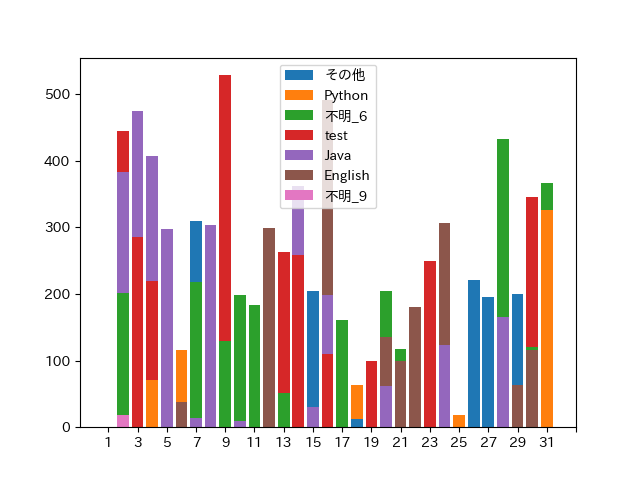
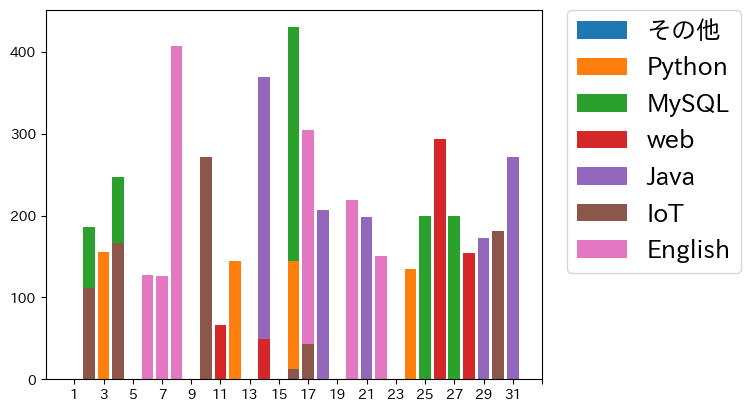
円グラフの作成の追加

diff --git a/study_application/login_user/output/2_stacked_bar_graph.html b/study_application/login_user/output/2_stacked_bar_graph.html
@@ -3,8 +3,9 @@
 <title>勉強記録</title>
 </head>
 <body>
-<h1>2024年01月の勉強記録
+<h1>2024年01月の勉強記録</h1>
 </body>
-<img src="c:\Users\kuwah\デスクトップ\study_record\study_application\output/2_stacked_bar_graph.png">
+<img src="c:\Users\kuwah\デスクトップ\study_record\study_application\login_user\output/2_stacked_bar_graph.png">
+<img src="c:\Users\kuwah\デスクトップ\study_record\study_application\login_user\output/2_pie_chart.png">
 </body>
 </html>

diff --git a/study_application/login_user/output/create_html.py b/study_application/login_user/output/create_html.py
@@ -1,0 +1,79 @@
+import os
+import sys
+from matplotlib import pyplot as plt
+import japanize_matplotlib
+import webbrowser
+sys.path.append(os.path.dirname(os.path.dirname(os.path.dirname(os.path.abspath(__file__)))))
+from util import input_util, get_last_date
+from util.db_util import check_error
+from access_databasaes import access_study_records
+
+
+@check_error
+def main(user_id):
+    year_month =  input_util.input_year_month("グラフを作成する年、月を入力してください['%Y-%m']")
+    last_date = get_last_date.last_date(year_month.year, year_month.month)
+    rows = access_study_records.get_records(user_id, year_month.date(), year_month.date().replace(day=last_date))
+    if rows == None:
+        print("記録がありませんでした")
+        return
+    category_name_list = access_study_records.get_category_name_list(user_id, year_month.date(), year_month.date().replace(day=last_date))
+
+    # 積み上げ棒グラフの作成
+    x_date = [str(i) for i in range(1, last_date + 1)]
+    bar_records = dict() # カテゴリーIDごとに日付ごとの勉強時間のリストを持つディクショナリ
+    for category in category_name_list:
+        bar_records[category['category_name']] = [0] * last_date
+    for row in rows:
+        time = row['study_time']   # timedelta型
+        minute = time.seconds // 60
+        category_name = row['category_name']
+        date = row['study_date'].day
+        bar_records[category_name][date - 1] += minute
+    plt.bar(x_date, bar_records[category_name_list[0]['category_name']], label = category_name_list[0]['category_name'])
+    for i in range(1, len(category_name_list)):
+        plt.bar(x_date, bar_records[category_name_list[i]['category_name']], bottom=bar_records[category_name_list[i - 1]['category_name']], label = category_name_list[i]['category_name'])
+    plt.xticks([i for i in range(0, last_date + 2, 2)])
+    plt.legend(bbox_to_anchor=(1.05, 1), loc='upper left', borderaxespad=0, fontsize=18)
+    plt.savefig(f"{os.path.dirname(__file__)}/{user_id}_stacked_bar_graph.png", bbox_inches='tight')
+    plt.clf()
+    # 円グラフの作成
+    pie_records = dict() # カテゴリーIDごとに日付ごとの勉強時間のリストを持つディクショナリ
+    for category in category_name_list:
+        pie_records[category['category_name']] = 0
+    for row in rows:
+        time = row['study_time']   # timedelta型
+        minute = time.seconds // 60
+        category_name = row['category_name']
+        pie_records[category_name] += minute
+    
+    x = list(pie_records.keys())
+    y = list(pie_records.values())
+    for i in range(len(x)):
+        hour = 0
+        minute = 0
+        hour += y[i] // 60
+        minute += y[i] % 60
+        x[i] = f"{x[i]}: {hour}時間{minute}分"
+
+    plt.pie(y, labels=x, autopct="%1.1f%%", counterclock=False, startangle=90)
+    plt.legend(bbox_to_anchor=(1.4, 0.8), loc='upper left', borderaxespad=0, fontsize=18)
+    plt.savefig(f"{os.path.dirname(__file__)}/{user_id}_pie_chart.png", bbox_inches='tight')
+    plt.clf()
+
+    with open(f"{os.path.dirname(os.path.abspath(__file__))}\{user_id}_stacked_bar_graph.html", mode='w', encoding= 'utf-8', newline='\n') as f:
+        f.write('<html>\n')
+        f.write('<head>\n')
+        f.write('<title>勉強記録</title>\n')
+        f.write('</head>\n')
+        f.write('<body>\n')
+        f.write(f'<h1>{year_month.strftime("%Y年%m月")}の勉強記録</h1>\n')
+        f.write('</body>\n')
+        f.write(f'<img src="{os.path.dirname(__file__)}/{user_id}_stacked_bar_graph.png">\n')
+        f.write(f'<img src="{os.path.dirname(__file__)}/{user_id}_pie_chart.png">\n')
+        f.write('</body>\n')
+        f.write('</html>\n')
+    webbrowser.open(f"{os.path.dirname(os.path.abspath(__file__))}\{user_id}_stacked_bar_graph.html", 2, autoraise=True)
+
+if __name__ == '__main__':
+    main(2)
